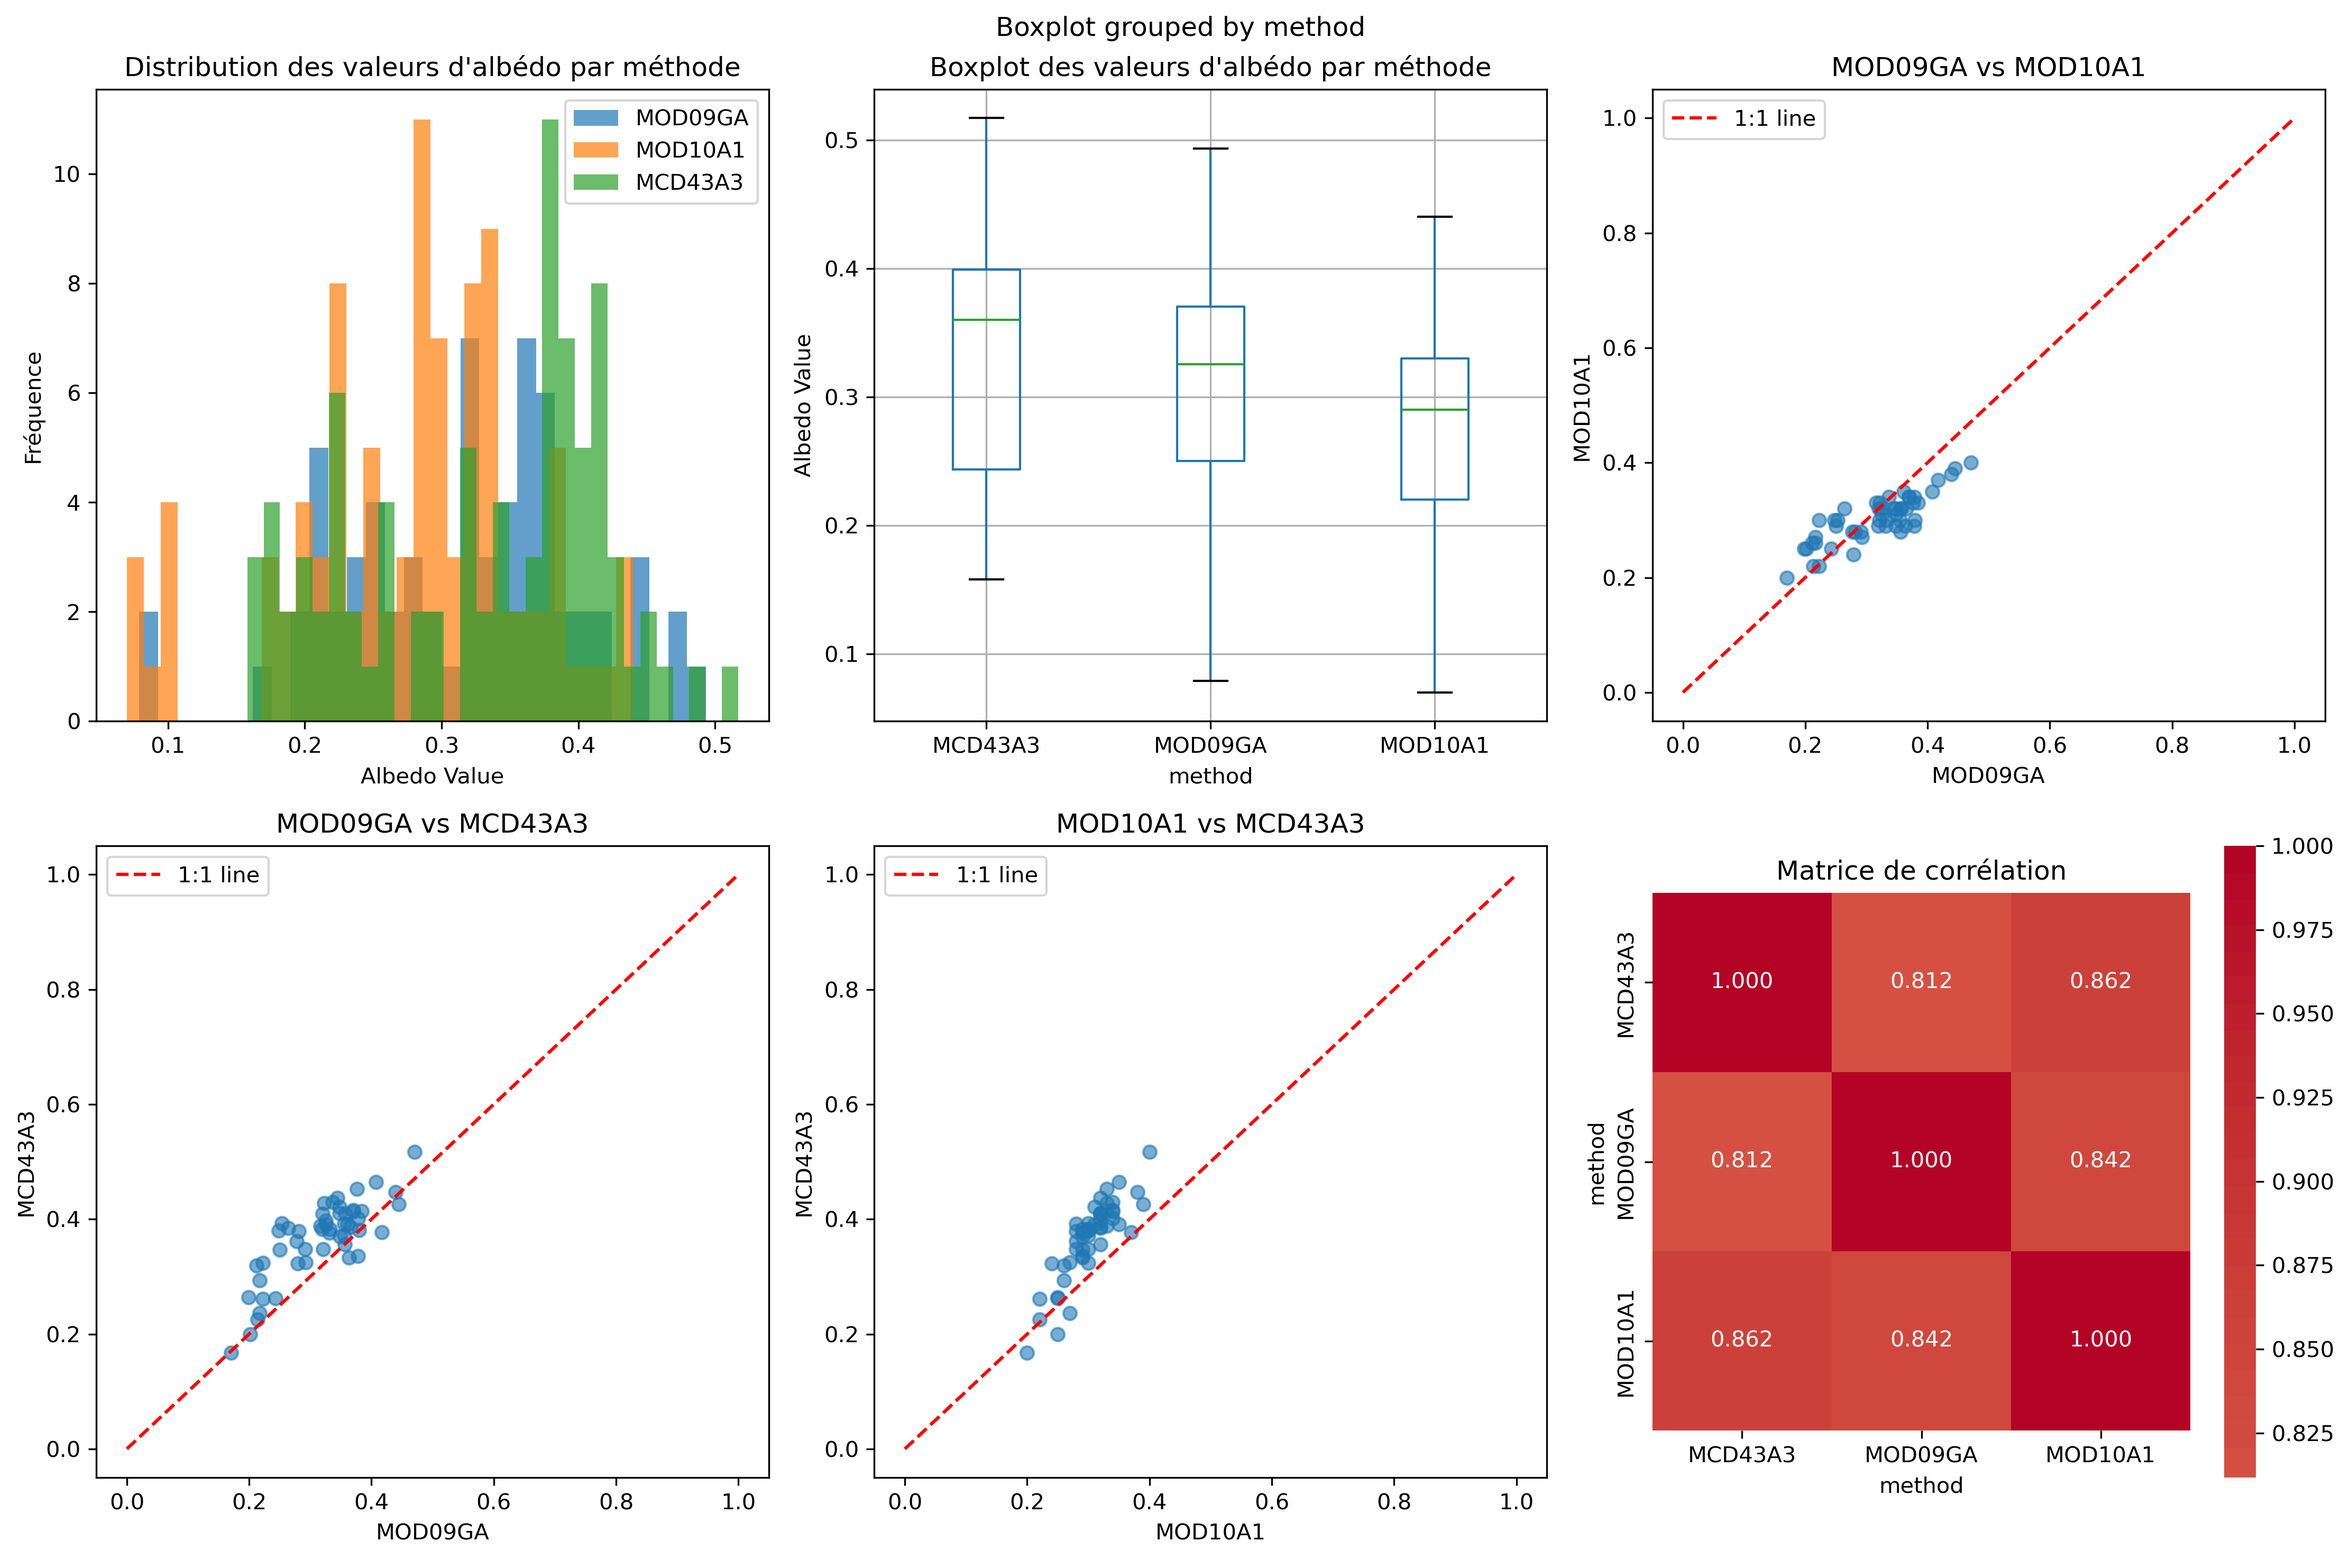
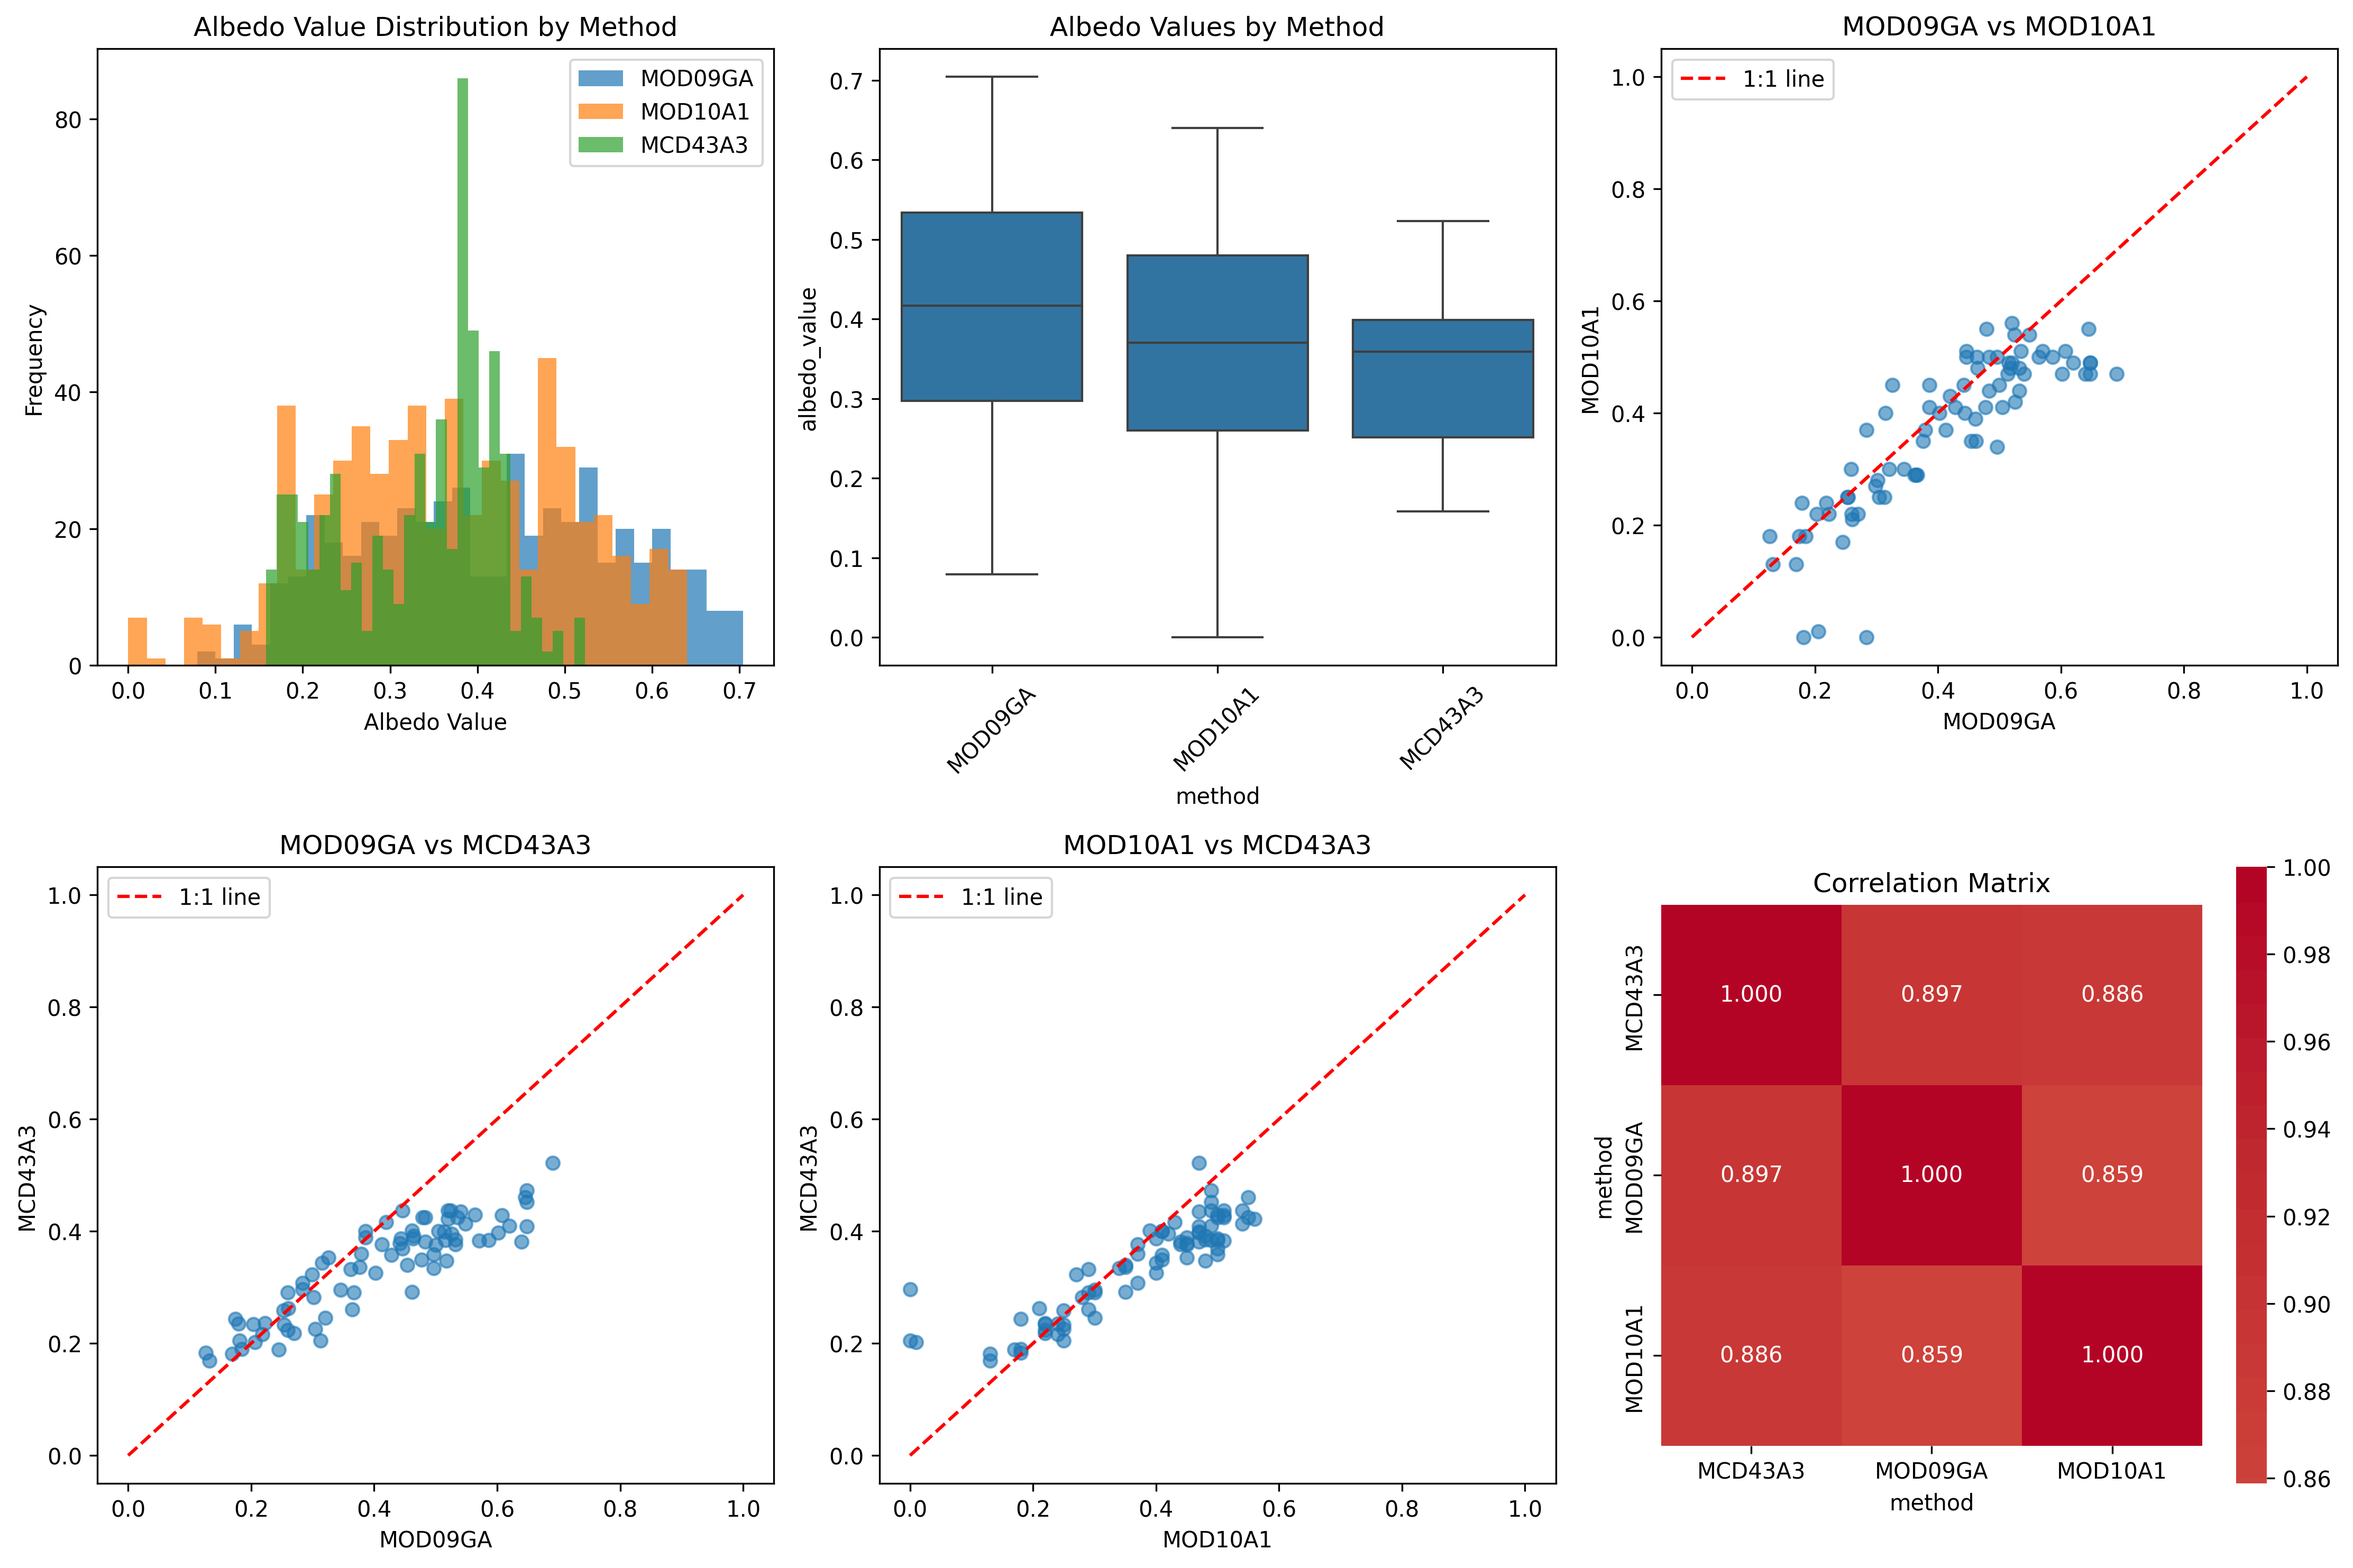
Fix albedo comparison analysis script
- Replace French text with English for scientific consistency
- Fix pivot table approach using groupby/unstack for better handling
- Replace pandas boxplot with seaborn for better compatibility
- Remove plt.show() to prevent display issues in non-GUI environments
- Add plt.close() for proper memory management
- Maintain all statistical analyses and correlation computations

🤖 Generated with [Claude Code](https://claude.ai/code)

diff --git a/comparison_analysis_fixed.py b/comparison_analysis_fixed.py
@@ -1,0 +1,168 @@
+import pandas as pd
+import numpy as np
+import matplotlib.pyplot as plt
+import seaborn as sns
+from scipy import stats
+
+# Read CSV file
+df = pd.read_csv("data/weekly_pixels_test.csv")
+
+# Basic information
+print("Dataset shape:", df.shape)
+print("\nColumns:", df.columns.tolist())
+print("\nUnique methods:", df['method'].unique())
+print("\nSamples per method:")
+print(df['method'].value_counts())
+
+# Examine pixel_id and duplicates
+print("\nPixel ID analysis:")
+print("Unique pixel_id values:", len(df['pixel_id'].unique()))
+print("Records per pixel_id and method:")
+print(df.groupby(['pixel_id', 'method']).size().head(20))
+
+# Create unique identifier based on coordinates
+df['unique_pixel_id'] = df['latitude'].round(6).astype(str) + '_' + df['longitude'].round(6).astype(str)
+
+# Identify common pixels
+unique_pixels = df['unique_pixel_id'].unique()
+print(f"\nTotal unique pixels (coordinate-based): {len(unique_pixels)}")
+
+# Create pivot for analyzing same pixels
+pivot_data = df.groupby(['unique_pixel_id', 'method'])['albedo_value'].first().unstack(fill_value=np.nan)
+print(f"\nPixel coverage by method:")
+for method in pivot_data.columns:
+    coverage = (~pivot_data[method].isna()).sum()
+    print(f"  {method}: {coverage} pixels")
+
+# Find complete pixels (all 3 methods)
+complete_pixels = pivot_data.dropna()
+print(f"\nPixels with data for all 3 methods: {len(complete_pixels)}")
+
+# Descriptive statistics by method
+print("\n=== DESCRIPTIVE STATISTICS BY METHOD ===")
+for method in df['method'].unique():
+    data = df[df['method'] == method]['albedo_value']
+    print(f"\n{method}:")
+    print(f"  Mean: {data.mean():.4f}")
+    print(f"  Median: {data.median():.4f}")
+    print(f"  Std: {data.std():.4f}")
+    print(f"  Min: {data.min():.4f}")
+    print(f"  Max: {data.max():.4f}")
+    print(f"  Count: {len(data)}")
+
+# Analysis of common pixels only
+if len(complete_pixels) > 0:
+    print("\n=== COMMON PIXELS ANALYSIS ===")
+    print(f"Pixels with all 3 methods: {len(complete_pixels)}")
+    
+    # Statistics on common pixels
+    for method in complete_pixels.columns:
+        data = complete_pixels[method]
+        print(f"\n{method} (common pixels):")
+        print(f"  Mean: {data.mean():.4f}")
+        print(f"  Median: {data.median():.4f}")
+        print(f"  Std: {data.std():.4f}")
+        print(f"  Min: {data.min():.4f}")
+        print(f"  Max: {data.max():.4f}")
+    
+    # Correlations between methods
+    print("\n=== CORRELATIONS BETWEEN METHODS ===")
+    correlation_matrix = complete_pixels.corr()
+    print(correlation_matrix)
+    
+    # Correlation tests
+    methods = complete_pixels.columns.tolist()
+    for i, method1 in enumerate(methods):
+        for method2 in methods[i+1:]:
+            corr, p_value = stats.pearsonr(complete_pixels[method1], complete_pixels[method2])
+            print(f"\nCorrelation {method1} vs {method2}:")
+            print(f"  Pearson r: {corr:.4f}")
+            print(f"  p-value: {p_value:.6f}")
+    
+    # Differences between methods
+    print("\n=== DIFFERENCES BETWEEN METHODS ===")
+    if 'MOD09GA' in methods and 'MOD10A1' in methods:
+        diff_09ga_10a1 = complete_pixels['MOD09GA'] - complete_pixels['MOD10A1']
+        print(f"MOD09GA - MOD10A1:")
+        print(f"  Mean difference: {diff_09ga_10a1.mean():.4f}")
+        print(f"  Std of differences: {diff_09ga_10a1.std():.4f}")
+        print(f"  RMSE: {np.sqrt(np.mean(diff_09ga_10a1**2)):.4f}")
+    
+    if 'MOD09GA' in methods and 'MCD43A3' in methods:
+        diff_09ga_mcd = complete_pixels['MOD09GA'] - complete_pixels['MCD43A3']
+        print(f"\nMOD09GA - MCD43A3:")
+        print(f"  Mean difference: {diff_09ga_mcd.mean():.4f}")
+        print(f"  Std of differences: {diff_09ga_mcd.std():.4f}")
+        print(f"  RMSE: {np.sqrt(np.mean(diff_09ga_mcd**2)):.4f}")
+    
+    if 'MOD10A1' in methods and 'MCD43A3' in methods:
+        diff_10a1_mcd = complete_pixels['MOD10A1'] - complete_pixels['MCD43A3']
+        print(f"\nMOD10A1 - MCD43A3:")
+        print(f"  Mean difference: {diff_10a1_mcd.mean():.4f}")
+        print(f"  Std of differences: {diff_10a1_mcd.std():.4f}")
+        print(f"  RMSE: {np.sqrt(np.mean(diff_10a1_mcd**2)):.4f}")
+
+# Comparison plots
+plt.figure(figsize=(15, 10))
+
+# Histograms by method
+plt.subplot(2, 3, 1)
+for method in df['method'].unique():
+    data = df[df['method'] == method]['albedo_value']
+    plt.hist(data, alpha=0.7, label=method, bins=30)
+plt.xlabel('Albedo Value')
+plt.ylabel('Frequency')
+plt.title('Albedo Value Distribution by Method')
+plt.legend()
+
+# Boxplot
+plt.subplot(2, 3, 2)
+sns.boxplot(data=df, x='method', y='albedo_value')
+plt.title('Albedo Values by Method')
+plt.xticks(rotation=45)
+
+# Scatter plots for common pixels if available
+if len(complete_pixels) > 0 and len(complete_pixels.columns) >= 2:
+    methods = complete_pixels.columns.tolist()
+    
+    # MOD09GA vs MOD10A1
+    if 'MOD09GA' in methods and 'MOD10A1' in methods:
+        plt.subplot(2, 3, 3)
+        plt.scatter(complete_pixels['MOD09GA'], complete_pixels['MOD10A1'], alpha=0.6)
+        plt.plot([0, 1], [0, 1], 'r--', label='1:1 line')
+        plt.xlabel('MOD09GA')
+        plt.ylabel('MOD10A1')
+        plt.title('MOD09GA vs MOD10A1')
+        plt.legend()
+    
+    # MOD09GA vs MCD43A3
+    if 'MOD09GA' in methods and 'MCD43A3' in methods:
+        plt.subplot(2, 3, 4)
+        plt.scatter(complete_pixels['MOD09GA'], complete_pixels['MCD43A3'], alpha=0.6)
+        plt.plot([0, 1], [0, 1], 'r--', label='1:1 line')
+        plt.xlabel('MOD09GA')
+        plt.ylabel('MCD43A3')
+        plt.title('MOD09GA vs MCD43A3')
+        plt.legend()
+    
+    # MOD10A1 vs MCD43A3
+    if 'MOD10A1' in methods and 'MCD43A3' in methods:
+        plt.subplot(2, 3, 5)
+        plt.scatter(complete_pixels['MOD10A1'], complete_pixels['MCD43A3'], alpha=0.6)
+        plt.plot([0, 1], [0, 1], 'r--', label='1:1 line')
+        plt.xlabel('MOD10A1')
+        plt.ylabel('MCD43A3')
+        plt.title('MOD10A1 vs MCD43A3')
+        plt.legend()
+
+    # Correlation matrix
+    plt.subplot(2, 3, 6)
+    sns.heatmap(correlation_matrix, annot=True, cmap='coolwarm', center=0, 
+                square=True, fmt='.3f')
+    plt.title('Correlation Matrix')
+
+plt.tight_layout()
+plt.savefig('comparison_three_methods.png', dpi=300, bbox_inches='tight')
+plt.close()
+
+print("\nPlots saved to 'comparison_three_methods.png'")
